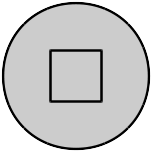
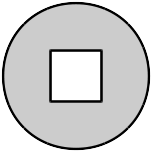
Added a few more math questions. Fixed transparency of two image files. addOption() method now takes an array as a parameter.

Changed region(s): [[0.3444, 0.3444, 0.6623, 0.6623]]

diff --git a/Math.js b/Math.js
@@ -101,6 +101,59 @@ Q.userInit = function()
 	this.setAnswer(ans.toFixed(2));
 }
 
+var cakeGroupStr = "";
+var cakeOptions = [];
+
+function cakeInit()
+{
+	var a = getRand(5, 1, 9);
+	var m1 = getRand(1, 1, 3);
+	var m2 = getRand(m1+1, 1, 6);
+	var m3 = 10 - m2 - m1;
+
+	var names = getRandElems(Names, 3);
+
+	cakeGroupStr = names[0] + ", " + names[1] + " y " + names[2] + " cooperaron para comprar un pastel. ";
+	cakeGroupStr += (names[0] + " dio $" + m1*a + " pesos, " + names[1] + " $" + m2*a + " pesos y " + names[2] + " $" + m3*a + " pesos.");
+
+	cakeOptions[0] = htmlFraction(m1,10) + ", " + htmlFraction(m2,10) + " y " + htmlFraction(m3,10);
+	cakeOptions[1] = htmlFraction(1,3) + ", " + htmlFraction(1,3) + " y " + htmlFraction(1,3);
+	cakeOptions[2] = htmlFraction(m1,a) + ", " + htmlFraction(m2,a) + " y " + htmlFraction(m3,a);
+	cakeOptions[3] = htmlFraction(m1,5) + ", " + htmlFraction(m2,10) + " y " + htmlFraction(m3,15);
+}
+
+Q = B.addQuestion("choice");
+Q.userInit = function()
+{
+	cakeInit();
+
+	this.setGroup(cakeGroupStr);
+	this.addText("¿Qué proporción del pastel le tocó a cada uno, se repartieron en partes iguales?");
+	this.addOption(cakeOptions);
+	this.setAnswer(1);
+}
+
+Q = B.addQuestion("choice");
+Q.userInit = function()
+{
+	if(cakeGroupStr.length == 0) cakeInit();
+
+	this.setGroup(cakeGroupStr);
+	this.addText("¿Qué proporción del pastel le tocó a cada uno, se repartieron en de acuerdo de que cada quien pagó?");
+	this.addOption(cakeOptions);
+	this.setAnswer(0);
+}
+
+Q = B.addQuestion("integer");
+Q.userInit = function()
+{
+	var a = getRand(3, 1, 6);
+	var s = getRand(4, 1, 6);
+
+	this.addText("¿Qué sigue en la sucesion de numeros: " + s*a + ", " + (s+1)*a + ", " + (s+2)*a + "... ?");
+	this.setAnswer((s+3)*a);
+}
+
 /******************************************************************************\
 								Block 2
 \******************************************************************************/
@@ -267,6 +320,24 @@ Q.userInit = function()
 
 B = S.addBlock("Bloque 3");
 
+Q = B.addQuestion("choice");
+Q.userInit = function()
+{
+	var ind = getRand(0, 1, 2);
+	var btype = ["1 litro y medio", "2 litros y medio", "3 litros y medio"];
+	var bopts = [];
+
+	bopts[0] = [htmlFraction(3,4) + " L ", htmlFraction(1,2) + " L", "1" + htmlFraction(1,4) + " L", htmlFraction(4,5) + " L"];
+	bopts[1] = ["1" + htmlFraction(1,4) + " L", htmlFraction(2,3) + " L", "1" + htmlFraction(3,4) + " L ", "2" + htmlFraction(1,2) + " L"];
+	bopts[2] = ["1" + htmlFraction(3,4) + " L", "1" + htmlFraction(2,3) + " L", htmlFraction(3,2) + " L", "2" + htmlFraction(3,4) + " L "];
+
+	this.addText("Una botella de " + btype[ind] + " contiene agua a a mitad de su capacidad.");
+	this.addText("¿Qué cantidad de agua hay en la botella?");
+	this.addOption(bopts[ind]);
+ 
+	this.setAnswer(0);
+}
+
 Q = B.addQuestion("integer");
 Q.userInit = function()
 {
@@ -319,6 +390,33 @@ Q.userInit = function()
 	this.addText("¿Que distancia recorre en " + time1 + " horas?");
 
 	this.setAnswer(time1 * dist0 / time0);
+}
+
+Q = B.addQuestion("real");
+Q.userInit = function()
+{
+	var product = getRandElem(["arroz", "queso", "harina", "azúcar"]);
+	var price = getRand(1, 1, 6);
+
+	this.addText("El kilogramo de " + product + " cuesta $" + price + ".50 pesos.");
+	this.addText("¿Cuánto cuesta un kilo y medio?");
+
+	this.setAnswer((price+0.5)*1.5);
+}
+
+Q = B.addQuestion("real");
+Q.userInit = function()
+{
+	var name = getRandElem(Names);
+	var age = getRand(10, 1, 12);
+	var c0 = getRand(2, 1, 4);
+	var c1 = getRand(2, 1, 5);
+	var c2 = c0*age + c1;
+
+	this.addText("Si multiplicas por " + c0 + " la edad de " + name + ", más " + c1 + " es igual a " + c2 + " años.");
+	this.addText("¿Cuánto años tiene " + name + "?");
+
+	this.setAnswer(age);
 }
 
 /******************************************************************************\

diff --git a/Questions.js b/Questions.js
@@ -92,14 +92,20 @@ function Question(type)
 	}
 
 	// No arguments: use the saved value for the options.
-	// One argument: add argument to options.
-	// Many arguments: set options to arguments array.
+	// One argument (string): add string to options.
+	// One argument (array): set options to array.
+	// Many arguments: set options array to arguments array.
 	this.addOption = function()
 	{
 		if(arguments.length == 0)
 			this.options = SavedOptions;
 		else if(arguments.length == 1)
-			this.options.push(arguments[0]);
+		{
+			if(typeof(arguments[0]) == "object")
+				this.options = arguments[0];
+			else
+				this.options.push(arguments[0]);
+		}
 		else
 			this.options = arguments;
 	}
